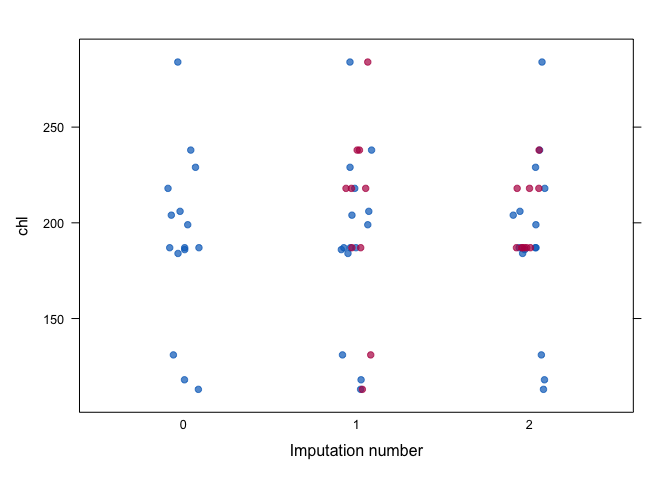
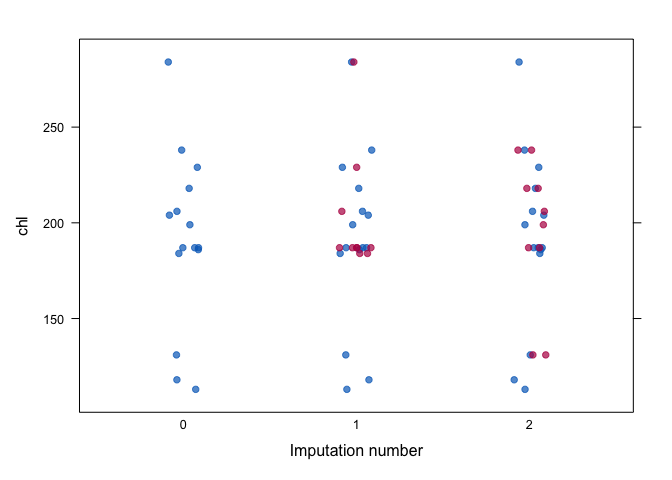
Update to mice 3.19.10

diff --git a/NEWS.md b/NEWS.md
@@ -1,8 +1,26 @@
+# mice 3.19.10
+
+- Fixes `barnard.rubin()` silently returning only the first element when called
+  with vector `b` and `dfcom = Inf`. The infinite-`dfcom` branch used a scalar
+  `if`, so only the length-1 result was returned instead of a vector matching
+  `b`. Now vectorised with `ifelse()`, consistent with the finite-`dfcom` case.
+- Cleans up the testthat suite: restores or removes commented-out tests,
+  replaces deprecated `context()`/`expect_is()` calls, guards optional-package
+  tests with `skip_if_not_installed()`, and fixes a handful of latent test bugs
+  (a `set.seed <- 818` typo that silently disabled seeding, and a tautological
+  assertion in `test-blocks.R`). No user-facing behavior changes.
+- Adds a stable `<FUNCTION>-<NNN>` ID (e.g. `BARNARD-RUBIN-001`) to every
+  `test_that()` label in the testthat suite, derived from the test file name
+  and assigned in file order. These IDs let this R suite be compared directly
+  against other implementations that share the same scheme,
+  so equivalent test cases are greppable across languages instead of relying
+  on manual cross-referencing. No user-facing behavior changes.
+
 # mice 3.19.9
+
 - Adds `mice.impute.svm()` as a binary variables imputation technique for high 
   dimensional data based on proper multiple imputation using Support Vector 
   Machines combined with bootstrapping. Solves (#751) with (#752). Thanks @Mmtakahashi123
-
 
 # mice 3.19.8
 

diff --git a/README.md b/README.md
@@ -7,7 +7,7 @@
 [![CRAN_Status_Badge](https://www.r-pkg.org/badges/version/mice)](https://cran.r-project.org/package=mice)
 [![](https://cranlogs.r-pkg.org/badges/mice)](https://cran.r-project.org/package=mice)
 [![R-CMD-check](https://github.com/amices/mice/actions/workflows/R-CMD-check.yaml/badge.svg)](https://github.com/amices/mice/actions/workflows/R-CMD-check.yaml)
-[![](https://img.shields.io/badge/github%20version-3.19.9-orange.svg)](https://amices.org/mice/)
+[![](https://img.shields.io/badge/github%20version-3.19.10-orange.svg)](https://amices.org/mice/)
 <!-- badges: end -->
 
 ## [Multivariate Imputation by Chained Equations](https://amices.org/mice/)
@@ -96,9 +96,9 @@ fit <- with(imp, lm(chl ~ age + bmi))
 # pool and summarize the results
 summary(pool(fit))
 #>          term estimate std.error statistic    df p.value
-#> 1 (Intercept)     9.08     73.09     0.124  4.50  0.9065
-#> 2         age    35.23     17.46     2.017  1.36  0.2377
-#> 3         bmi     4.69      1.94     2.417 15.25  0.0286
+#> 1 (Intercept)    12.01     70.99     0.169  4.31  0.8733
+#> 2         age    31.04     18.73     1.657  1.20  0.3134
+#> 3         bmi     4.84      1.88     2.572 16.20  0.0203
 ```
 
 The complete-data is fit to each imputed dataset, and the results are